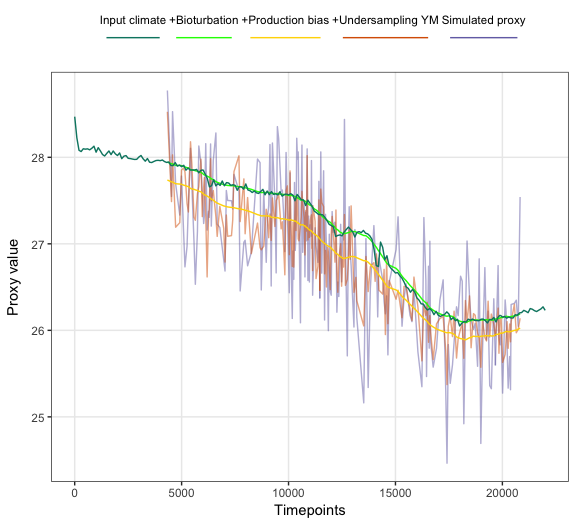
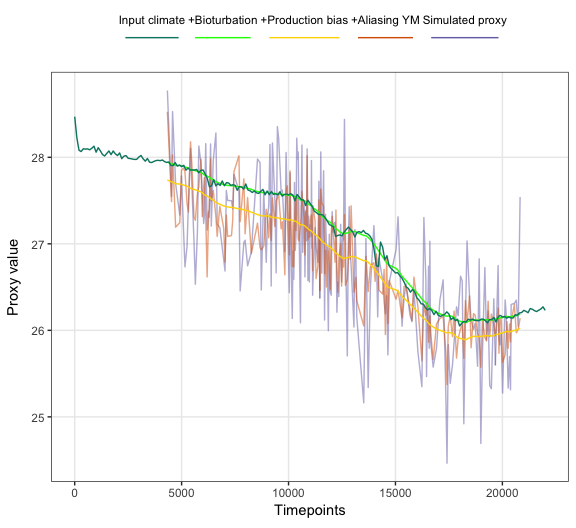
change undersampling for aliasing in key

Changed region(s): [[0.1562, 0.0303, 0.9062, 0.0909]]

diff --git a/readme.md b/readme.md
@@ -149,18 +149,18 @@ PFM$everything
 
 ```
 ## # A tibble: 9,725 x 9
-##    timepoints replicate             stage    value            label
-##         <dbl>     <dbl>             <chr>    <dbl>            <chr>
-##  1       4334         1 proxy.bt.sb.sampY 27.77735 +Undersampling Y
-##  2       4527         1 proxy.bt.sb.sampY 27.71641 +Undersampling Y
-##  3       4576         1 proxy.bt.sb.sampY 27.74539 +Undersampling Y
-##  4       4721         1 proxy.bt.sb.sampY 27.68920 +Undersampling Y
-##  5       4914         1 proxy.bt.sb.sampY 27.66205 +Undersampling Y
-##  6       4994         1 proxy.bt.sb.sampY 27.66351 +Undersampling Y
-##  7       5092         1 proxy.bt.sb.sampY 27.67081 +Undersampling Y
-##  8       5156         1 proxy.bt.sb.sampY 27.65508 +Undersampling Y
-##  9       5254         1 proxy.bt.sb.sampY 27.65605 +Undersampling Y
-## 10       5318         1 proxy.bt.sb.sampY 27.62041 +Undersampling Y
+##    timepoints replicate             stage    value       label
+##         <dbl>     <dbl>             <chr>    <dbl>       <chr>
+##  1       4334         1 proxy.bt.sb.sampY 27.77735 +Aliasing Y
+##  2       4527         1 proxy.bt.sb.sampY 27.71641 +Aliasing Y
+##  3       4576         1 proxy.bt.sb.sampY 27.74539 +Aliasing Y
+##  4       4721         1 proxy.bt.sb.sampY 27.68920 +Aliasing Y
+##  5       4914         1 proxy.bt.sb.sampY 27.66205 +Aliasing Y
+##  6       4994         1 proxy.bt.sb.sampY 27.66351 +Aliasing Y
+##  7       5092         1 proxy.bt.sb.sampY 27.67081 +Aliasing Y
+##  8       5156         1 proxy.bt.sb.sampY 27.65508 +Aliasing Y
+##  9       5254         1 proxy.bt.sb.sampY 27.65605 +Aliasing Y
+## 10       5318         1 proxy.bt.sb.sampY 27.62041 +Aliasing Y
 ## # ... with 9,715 more rows, and 4 more variables: description <chr>,
 ## #   plot.order <dbl>, plotting.colour <chr>, plotting.alpha <dbl>
 ```
